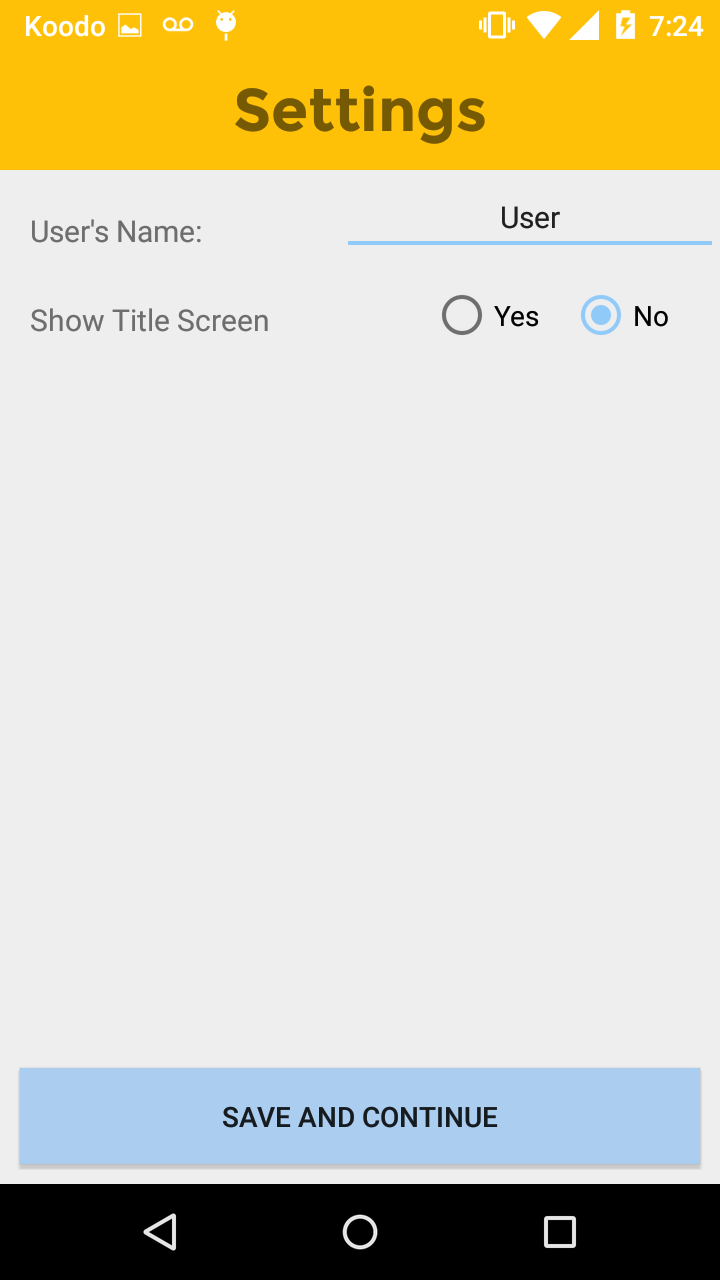
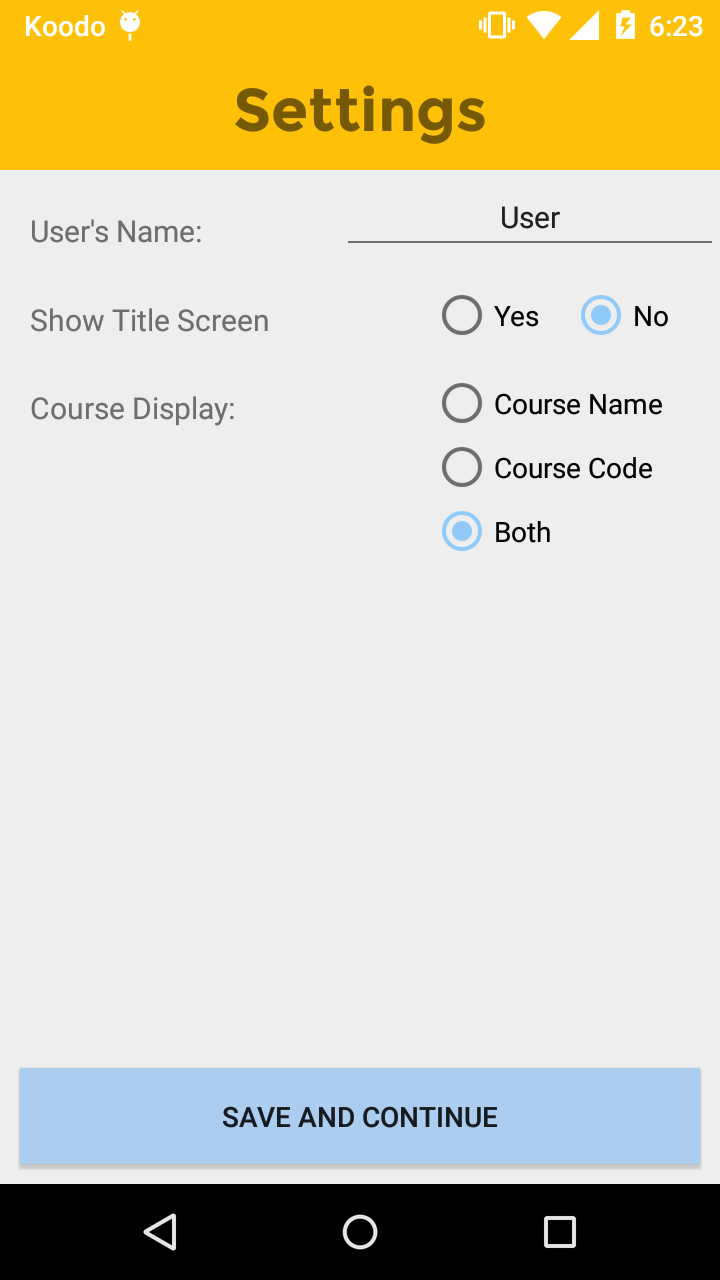
Added target mark feature
Added a feature that allows the user to determine the mark they need to
reach a certain target mark. Display grade section weights

diff --git a/app/src/main/java/com/example/mark/report_card/popups/TargetMarkDialogFragment.java b/app/src/main/java/com/example/mark/report_card/popups/TargetMarkDialogFragment.java
@@ -1,0 +1,92 @@
+package com.example.mark.report_card.popups;
+
+import android.app.DialogFragment;
+import android.os.Bundle;
+import android.support.annotation.Nullable;
+import android.view.LayoutInflater;
+import android.view.View;
+import android.view.ViewGroup;
+import android.widget.Button;
+import android.widget.EditText;
+import android.widget.TextView;
+
+import com.example.mark.report_card.R;
+
+import data.Course;
+
+
+public class TargetMarkDialogFragment extends DialogFragment{
+
+    Course course;
+
+    TextView currentMarkText;
+    TextView currentWeightText;
+    TextView targetMarkText;
+    TextView targetMarkPercentText;
+    TextView resultText;
+    EditText targetMarkEditText;
+    Button calculateTargetMarkButton;
+
+    public static TargetMarkDialogFragment newInstance(Course course) {
+        TargetMarkDialogFragment f = new TargetMarkDialogFragment();
+
+        // Supply course input as an argument.
+        Bundle args = new Bundle();
+        args.putSerializable("course", course);
+        f.setArguments(args);
+
+        return f;
+    }
+
+    @Override
+    public void onCreate(Bundle savedInstanceState) {
+        super.onCreate(savedInstanceState);
+        course = (Course) getArguments().getSerializable("course");
+    }
+
+    @Nullable
+    @Override
+    public View onCreateView(LayoutInflater inflater, ViewGroup container, Bundle savedInstanceState) {
+
+        View rootView = inflater.inflate(R.layout.dialog_fragment_target_mark, container, false);
+
+        currentMarkText = (TextView) rootView.findViewById(R.id.currentMarkText);
+        currentWeightText = (TextView) rootView.findViewById(R.id.currentWeightText);
+        targetMarkText = (TextView) rootView.findViewById(R.id.targetMarkText);
+        targetMarkPercentText = (TextView) rootView.findViewById(R.id.targetMarkPercentText);
+        resultText = (TextView) rootView.findViewById(R.id.resultText);
+        targetMarkEditText = (EditText) rootView.findViewById(R.id.targetMarkEditText);
+        calculateTargetMarkButton = (Button) rootView.findViewById(R.id.calculateTargetMarkButton);
+
+        resultText.setVisibility(View.GONE);
+
+        currentMarkText.setText(String.format("Current mark: %.2f%%", course.getCurrentGrade()));
+        currentWeightText.setText(String.format("Current weight: %.2f%%", course.getCurrentTotalWeight()));
+
+        getDialog().setTitle("Target mark");
+
+        calculateTargetMarkButton.setOnClickListener(new View.OnClickListener() {
+            public void onClick(View v) {
+                currentMarkText.setVisibility(View.GONE);
+                currentWeightText.setVisibility(View.GONE);
+                targetMarkEditText.setVisibility(View.GONE);
+                targetMarkText.setVisibility(View.GONE);
+                targetMarkPercentText.setVisibility(View.GONE);
+                calculateTargetMarkButton.setVisibility(View.GONE);
+
+                double targetMark = Double.parseDouble(targetMarkEditText.getText().toString());
+                double neededMark = 100*(targetMark - (course.getCurrentTotalWeight()/100 * course.getCurrentGrade()))/
+                        (100 - course.getCurrentTotalWeight());
+
+                resultText.setText(String.format("To get a final mark of %.2f%%, you need to get " +
+                        "%.2f%% on the remaining %.2f%% of the course", targetMark, neededMark,
+                        100 - course.getCurrentTotalWeight()));
+                resultText.setVisibility(View.VISIBLE);
+            }
+
+        });
+
+        return rootView;
+    }
+
+}

diff --git a/app/src/main/java/com/example/mark/report_card/navigation/CourseInfoActivity.java b/app/src/main/java/com/example/mark/report_card/navigation/CourseInfoActivity.java
@@ -2,9 +2,12 @@ package com.example.mark.report_card.navigation;
 
 import android.annotation.TargetApi;
 import android.app.ActivityOptions;
+//import android.app.FragmentManager;
+import android.app.FragmentTransaction;
 import android.content.Intent;
 import android.graphics.Typeface;
 import android.os.Build;
+import android.support.v4.app.FragmentManager;
 import android.support.v7.app.AppCompatActivity;
 import android.os.Bundle;
 import android.view.View;
@@ -17,6 +20,7 @@ import com.example.mark.report_card.R;
 import com.example.mark.report_card.adding.AddGradeSectionActivity;
 import com.example.mark.report_card.popups.EditGradeSectionOptionsPopUpActivity;
 import com.example.mark.report_card.popups.EditMarkOptionsPopUpActivity;
+import com.example.mark.report_card.popups.TargetMarkDialogFragment;
 import com.example.mark.report_card.settings.SettingsActivity;
 
 import java.util.HashMap;
@@ -67,7 +71,12 @@ public class CourseInfoActivity extends AppCompatActivity {
         //Set static text in activity
         courseNameText.setTypeface(null, Typeface.BOLD);
         currentGrade.setTypeface(null, Typeface.BOLD);
+
+        if(selectedCourse.getName().length() > 23){
+            courseNameText.setTextSize(15);
+        }
         courseNameText.setText(selectedCourse.getName());
+
         courseCodeText.setText("Course Code: " + selectedCourse.getCode());
         if(selectedCourse.getCurrentGrade() == -1){//Change -1 into a constant and put in  Constants.java
             currentGrade.setText("Current Grade: N/A");
@@ -117,6 +126,12 @@ public class CourseInfoActivity extends AppCompatActivity {
         intent.putExtra("selectedCourse", selectedCourse);
         intent.putExtra("fromCourseInfoActivity", true);
         startActivity(intent);
+    }
+
+    public void calculateNeededMarkButtonClicked(View view){
+        FragmentTransaction fragmentManager = getFragmentManager().beginTransaction();
+        TargetMarkDialogFragment targetMarkDialogFragment = TargetMarkDialogFragment.newInstance(selectedCourse);
+        targetMarkDialogFragment.show(fragmentManager, "Tag");
     }
 
     public void backButtonClicked(View view){

diff --git a/app/src/main/java/adapters/CourseListAdapter.java b/app/src/main/java/adapters/CourseListAdapter.java
@@ -3,7 +3,6 @@ package adapters;
 import android.content.Context;
 import android.graphics.Color;
 import android.graphics.Typeface;
-import android.media.audiofx.BassBoost;
 import android.view.LayoutInflater;
 import android.view.View;
 import android.view.ViewGroup;
@@ -43,15 +42,24 @@ public class CourseListAdapter extends ArrayAdapter<Course>{
 
         courseNameAndCode.setTypeface(null, Typeface.BOLD);
 
+        String courseDisplayText = null;
         if(settingsManager.getCourseDisplay().equals("both")){
-            courseNameAndCode.setText(courseItem.getName() + " (" + courseItem.getCode() + ")");
+            courseDisplayText = courseItem.getName() + " (" + courseItem.getCode() + ")";
         } else if (settingsManager.getCourseDisplay().equals("courseName")){
-            courseNameAndCode.setText(courseItem.getName());
+            courseDisplayText = courseItem.getName();
         } else if (settingsManager.getCourseDisplay().equals("courseCode")){
-            courseNameAndCode.setText(courseItem.getCode());
+            courseDisplayText = courseItem.getCode();
         } else {
-            courseNameAndCode.setText("ERROR" + settingsManager.getCourseDisplay());
+            courseDisplayText ="ERROR";
         }
+
+        // Size the text to fit
+        if(courseDisplayText.length() > 32){
+            courseNameAndCode.setTextSize(16);
+        } else if (courseDisplayText.length() > 25){
+            courseNameAndCode.setTextSize(20);
+        }
+        courseNameAndCode.setText(courseDisplayText);
 
         if(currentGrade == -1){
             courseCurrentGrade.setText("Current Grade: N/A");

diff --git a/app/src/main/java/adapters/GradeSectionInfoListAdapter.java b/app/src/main/java/adapters/GradeSectionInfoListAdapter.java
@@ -74,10 +74,16 @@ public class GradeSectionInfoListAdapter extends BaseExpandableListAdapter{
             convertView = layoutInflater.inflate(R.layout.custom_course_info_list_row_heading, null);
         }
         TextView gradeSectionName = (TextView) convertView.findViewById(R.id.gradeSectionName);
+        TextView gradeSectionWeight = (TextView) convertView.findViewById(R.id.gradeSectionWeight);
         TextView currentGradeText = (TextView) convertView.findViewById(R.id.currentGradeText);
 
         gradeSectionName.setTypeface(null, Typeface.BOLD);
+        if(gradeSection.getSectionName().length() >= 10){
+            gradeSectionName.setTextSize(19);
+        }
+
         gradeSectionName.setText(gradeSection.getSectionName());
+        gradeSectionWeight.setText(String.format("(%.2f%%)", gradeSection.getWeight()));
 
         currentGradeText.setTypeface(null, Typeface.BOLD);
         if(gradeSection.getSectionGrade() >= 0){

diff --git a/app/src/main/java/data/Course.java b/app/src/main/java/data/Course.java
@@ -126,6 +126,19 @@ public class Course implements Serializable{
 
     }
 
+    public double getCurrentTotalWeight(){
+        double currentTotalWeight = 0;
+        for(GradeSection gradeSection: _grades){
+            for(Mark mark: gradeSection.getMarks()){
+                if(mark.getMark() != null){
+                    currentTotalWeight += gradeSection.getWeight()/gradeSection.getMarks().size();
+                }
+            }
+        }
+
+        return currentTotalWeight;
+    }
+
     public String toString(){
         String retString = getName()+"@@@@" +getCode();
         for(GradeSection grade: _grades){

diff --git a/app/src/main/java/com/example/mark/report_card/navigation/TitleScreenActivity.java b/app/src/main/java/com/example/mark/report_card/navigation/TitleScreenActivity.java
@@ -75,6 +75,7 @@ public class TitleScreenActivity extends AppCompatActivity {
         goToSelectSemester(true);
     }
 
+
     private void settingsSetup(){
         if (dbManager.settingsTableIsEmpty()){
             dbManager.addSettingsInfo("username", "User");
@@ -89,7 +90,7 @@ public class TitleScreenActivity extends AppCompatActivity {
                 dbManager.deleteSettingInfo("courseDisplay");
                 dbManager.addSettingsInfo("courseDisplay", "both");
             }
-            
+
             settingsManager.setCourseDisplay(dbManager.getSettingState("courseDisplay"));
         }
     }

diff --git a/app/src/main/java/com/example/mark/report_card/navigation/SelectCourseActivity.java b/app/src/main/java/com/example/mark/report_card/navigation/SelectCourseActivity.java
@@ -13,6 +13,7 @@ import android.widget.ImageView;
 import android.widget.ListAdapter;
 import android.widget.ListView;
 import android.widget.TextView;
+import android.widget.Toast;
 
 import com.example.mark.report_card.R;
 import com.example.mark.report_card.adding.AddCourseActivity;

diff --git a/README.md b/README.md
@@ -4,7 +4,7 @@ Track your grades over your academic career with this app. The app allows the us
 
 
 <p align="left">
-	<a href="https://play.google.com/store/apps/details?id=com.viola.mark.gradetracker&utm_source=global_co&utm_medium=prtnr&utm_content=Mar2515&utm_campaign=PartBadge&pcampaignid=MKT-Other-global-all-co-prtnr-py-PartBadge-Mar2515-1"><img alt="Get it on Google Play" src="https://play.google.com/intl/en_us/badges/images/generic/en-play-badge.png" height="64px" width="216px"/></a>
+	<a href="https://play.google.com/store/apps/details?id=com.viola.mark.gradetracker&utm_source=global_co&utm_medium=prtnr&utm_content=Mar2515&utm_campaign=PartBadge&pcampaignid=MKT-Other-global-all-co-prtnr-py-PartBadge-Mar2515-1"><img alt="Get it on Google Play" src="https://play.google.com/intl/en_us/badges/images/generic/en-play-badge.png" height="50px" width="168px"/></a>
 </p>
 
 
@@ -34,9 +34,8 @@ The title screen shows a summary of the user's academic status which includes th
 
 
 ###To-do List:
-* Allow user to calculate the mark needed to reach a desired final grade
 * Change GPA Scale
 * Convert a grade section from calculating all marks to top marks and vice versa
-* Visually display grade section weight
 * Expand settings options (color scheme, language)
 * Put all text in strings.xml file
+* info button 
